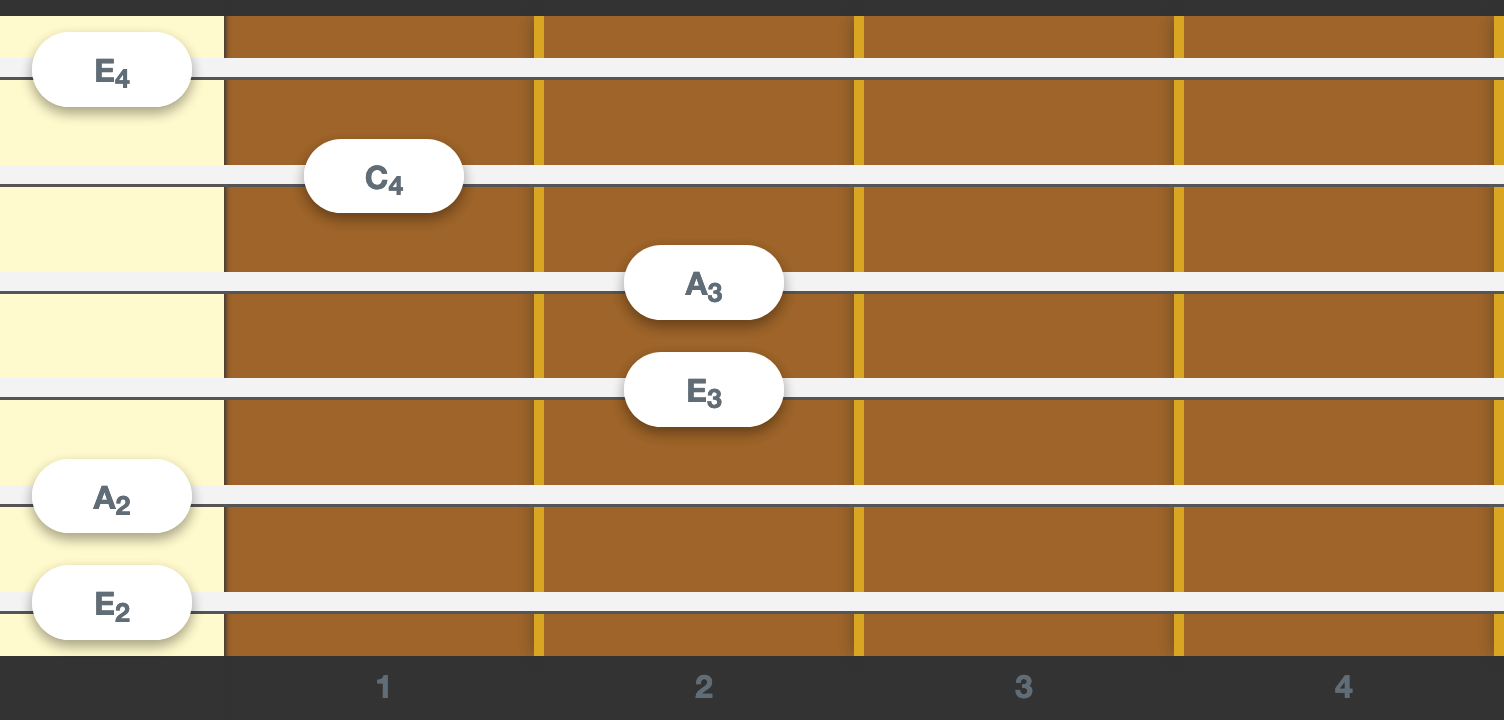
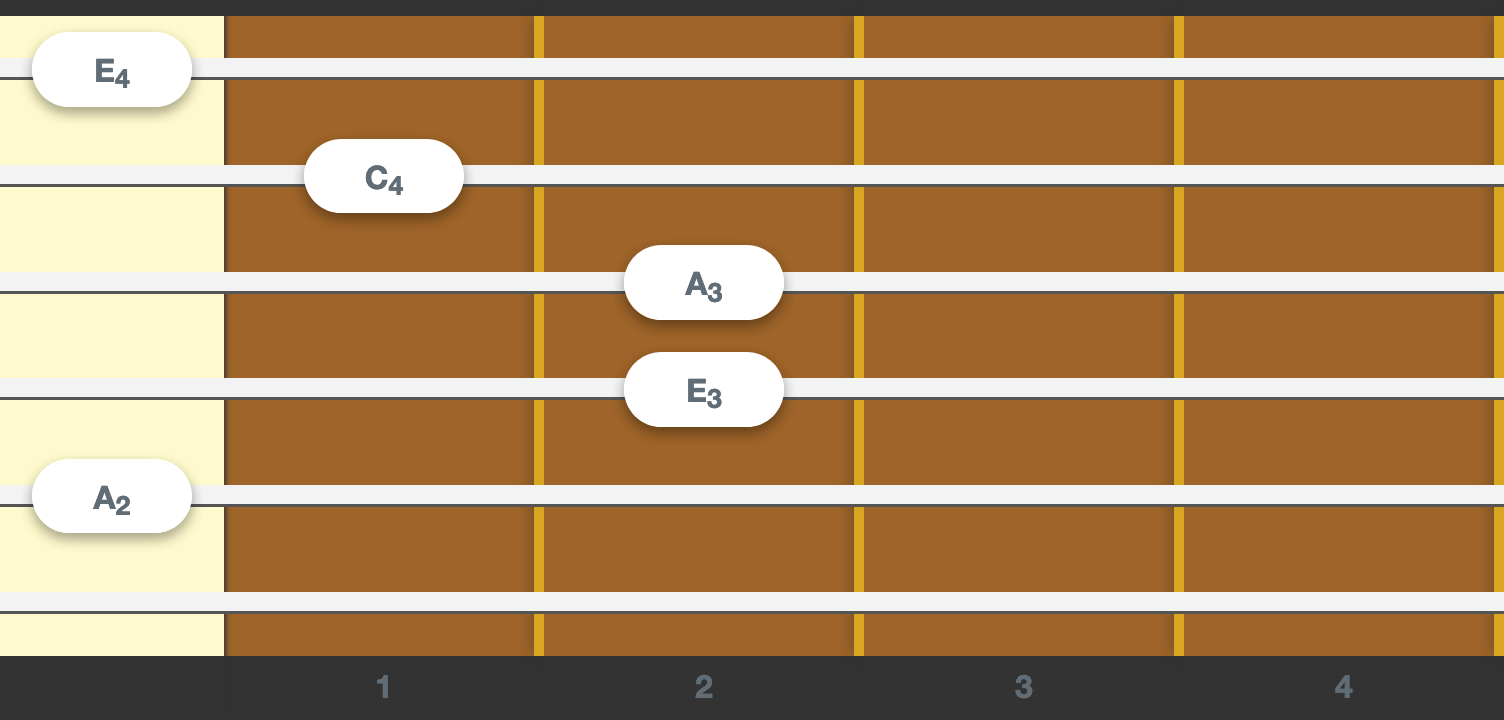
Muting string when pressing the nut

Changed region(s): [[0.0, 0.7639, 0.125, 0.9167]]

diff --git a/packages/react-guitar/src/components/guitar.tsx b/packages/react-guitar/src/components/guitar.tsx
@@ -55,7 +55,15 @@ export default function Guitar(props: Props) {
               renderFinger={renderFinger}
               onFretted={string =>
                 props.onChange?.(
-                  set(strings, string, strings[string] === fret ? 0 : fret)
+                  set(
+                    strings,
+                    string,
+                    fret === 0 && strings[string] === 0
+                      ? -1
+                      : strings[string] === fret
+                      ? 0
+                      : fret
+                  )
                 )
               }
               onOption={string => props.onOptions?.(string, fret)}
